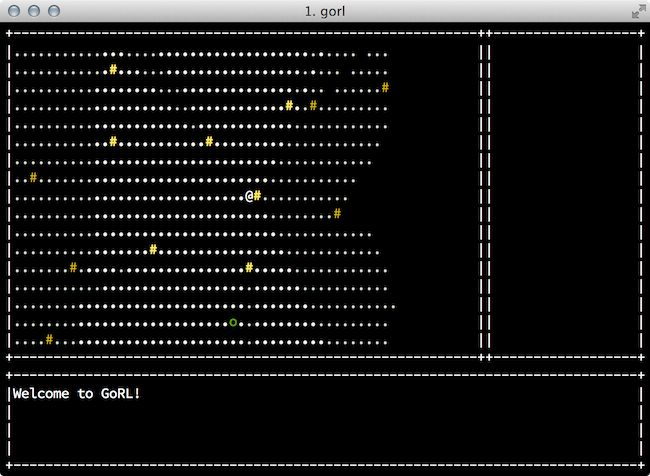
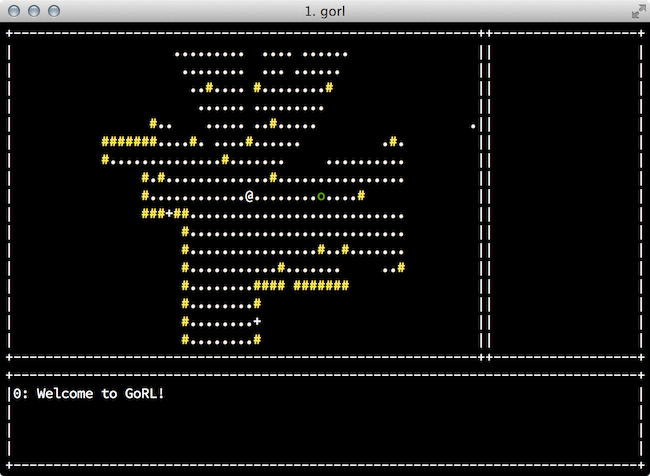
Random room based dungeon

diff --git a/lib/dungeonGenerator.go b/lib/dungeonGenerator.go
@@ -2,70 +2,105 @@ package gorl
 
 import (
 	"log"
+	"math/rand"
 
 	"github.com/nsf/termbox-go"
 )
 
-var TheDungeon = []string{
-	"############################################################",
-	"#..........................................................#",
-	"#..........................................................#",
-	"#..........................................................#",
-	"#..........................................................#",
-	"#..........................................................#",
-	"#..........................................................#",
-	"#..........................................................#",
-	"#..........................................................#",
-	"#..........................................................#",
-	"#..........................................................#",
-	"#..........................................................#",
-	"#..........................................................#",
-	"#..........................................................#",
-	"#.............####.##########.####.........................#",
-	"#.............#..................#.........................#",
-	"#.............#..................#.........................#",
-	"#.............#..................#.........................#",
-	"#.............#..................#.........................#",
-	"#.............#..................#.........................#",
-	"#.............#..................#.........................#",
-	"#.............#..................#.........................#",
-	"#.............#..................#.........................#",
-	"#.............####.##########.####.........................#",
-	"#..........................................................#",
-	"#..........................................................#",
-	"#..........................................................#",
-	"#..........................................................#",
-	"#..........................................................#",
-	"#..........................................................#",
-	"#..........................................................#",
-	"#..........................................................#",
-	"#..........................................................#",
-	"#..........................................................#",
-	"#..........................................................#",
-	"#..........................................................#",
-	"#..........................................................#",
-	"#..........................................................#",
-	"#..........................................................#",
-	"############################################################",
+type dungeonRoom struct {
+	width, height int
+	portals []Vector
+	tiles [][]Tile
 }
 
-func GenerateDungeon(log *log.Logger) *Dungeon {
-	width, height := len(TheDungeon[0]), len(TheDungeon)
+func newDungeonRoom(width, height int, dice *rand.Rand) *dungeonRoom {
+	tiles := make([][]Tile, height)
+	tilesRaw := make([]Tile, width * height)
+	for i := range tilesRaw {
+		tilesRaw[i] = NewTile('.', termbox.ColorWhite, Flag(0)|FlagCrossable)
+	}
+	for i := range tiles {
+		tiles[i], tilesRaw = tilesRaw[:width], tilesRaw[width:]
+	}
+
+	var edgeTiles []Vector
+	for x := 0; x < width; x++ {
+		for y := 0; y < height; y++ {
+			if x == 0 || x == width-1 || y == 0 || y == height-1 {
+				edgeTiles = append(edgeTiles, Vector{x, y})
+			}
+		}
+	}
+
+	for _, loc := range edgeTiles {
+		tiles[loc.y][loc.x] = NewTile('#', termbox.ColorYellow, Flag(0)|FlagBlocksLight)
+	}
+
+	var portals []Vector
+	for i := 1; i < 1 + dice.Intn(4); i++ {
+		portals = append(portals, edgeTiles[dice.Intn(len(edgeTiles))])
+	}
+	room := dungeonRoom{
+		width,
+		height,
+		portals,
+		tiles,
+	}
+	return &room
+}
+
+func (d *Dungeon) paintRoom (room *dungeonRoom, topLeft Vector) []Vector {
+	// TODO: support different orientations by changing order tiles iterated
+	for x := 0; x < room.width; x++ {
+		for y := 0; y < room.height; y++ {
+			dungeonLoc := topLeft.Add(Vector{x, y})
+			d.tiles[dungeonLoc.y][dungeonLoc.x] = room.tiles[y][x]
+		}
+	}
+	newPortals := make([]Vector, len(room.portals))
+	for i, portal := range room.portals {
+		portalLoc := portal.Add(topLeft)
+		newPortals[i] = portalLoc
+	}
+	return newPortals
+}
+
+func GenerateDungeon(log *log.Logger, dice *rand.Rand) *Dungeon {
+	width, height := 100, 100
 	d := NewDungeon(width, height, log)
 	var tile Tile
 
 	for y := 0; y < height; y++ {
-		for x, c := range TheDungeon[y] {
-			switch c {
-			case '#':
+		for x := 0; x < width; x++ {
+			if dice.Float32() < 0.05 {
 				tile = NewTile('#', termbox.ColorYellow, Flag(0)|FlagBlocksLight)
-			case '.':
+			} else {
 				tile = NewTile('.', termbox.ColorWhite, Flag(0)|FlagCrossable)
-			default:
-				tile = InvalidTile
 			}
 			d.tiles[y][x] = tile
 		}
+	}
+
+	roomCount := dice.Intn(10) + 10
+	var portals []Vector
+	for i := 0; i < roomCount; i++ {
+		roomWidth, roomHeight := dice.Intn(10) + 10, dice.Intn(10) + 10
+		topLeft := Vector{
+			dice.Intn(width - roomWidth),
+			dice.Intn(height - roomHeight),
+		}
+
+		room := newDungeonRoom(roomWidth, roomHeight, dice)
+		roomPortals := d.paintRoom(room, topLeft)
+		for _, p := range roomPortals {
+			portals = append(portals, p)
+		}
+	}
+
+	log.Printf("Room portals: %s", portals)
+
+	for _, portalLoc := range portals {
+		d.tiles[portalLoc.y][portalLoc.x] = NewTile('+', termbox.ColorWhite, Flag(0)|FlagCrossable|FlagBlocksLight)
 	}
 	return d
 }
